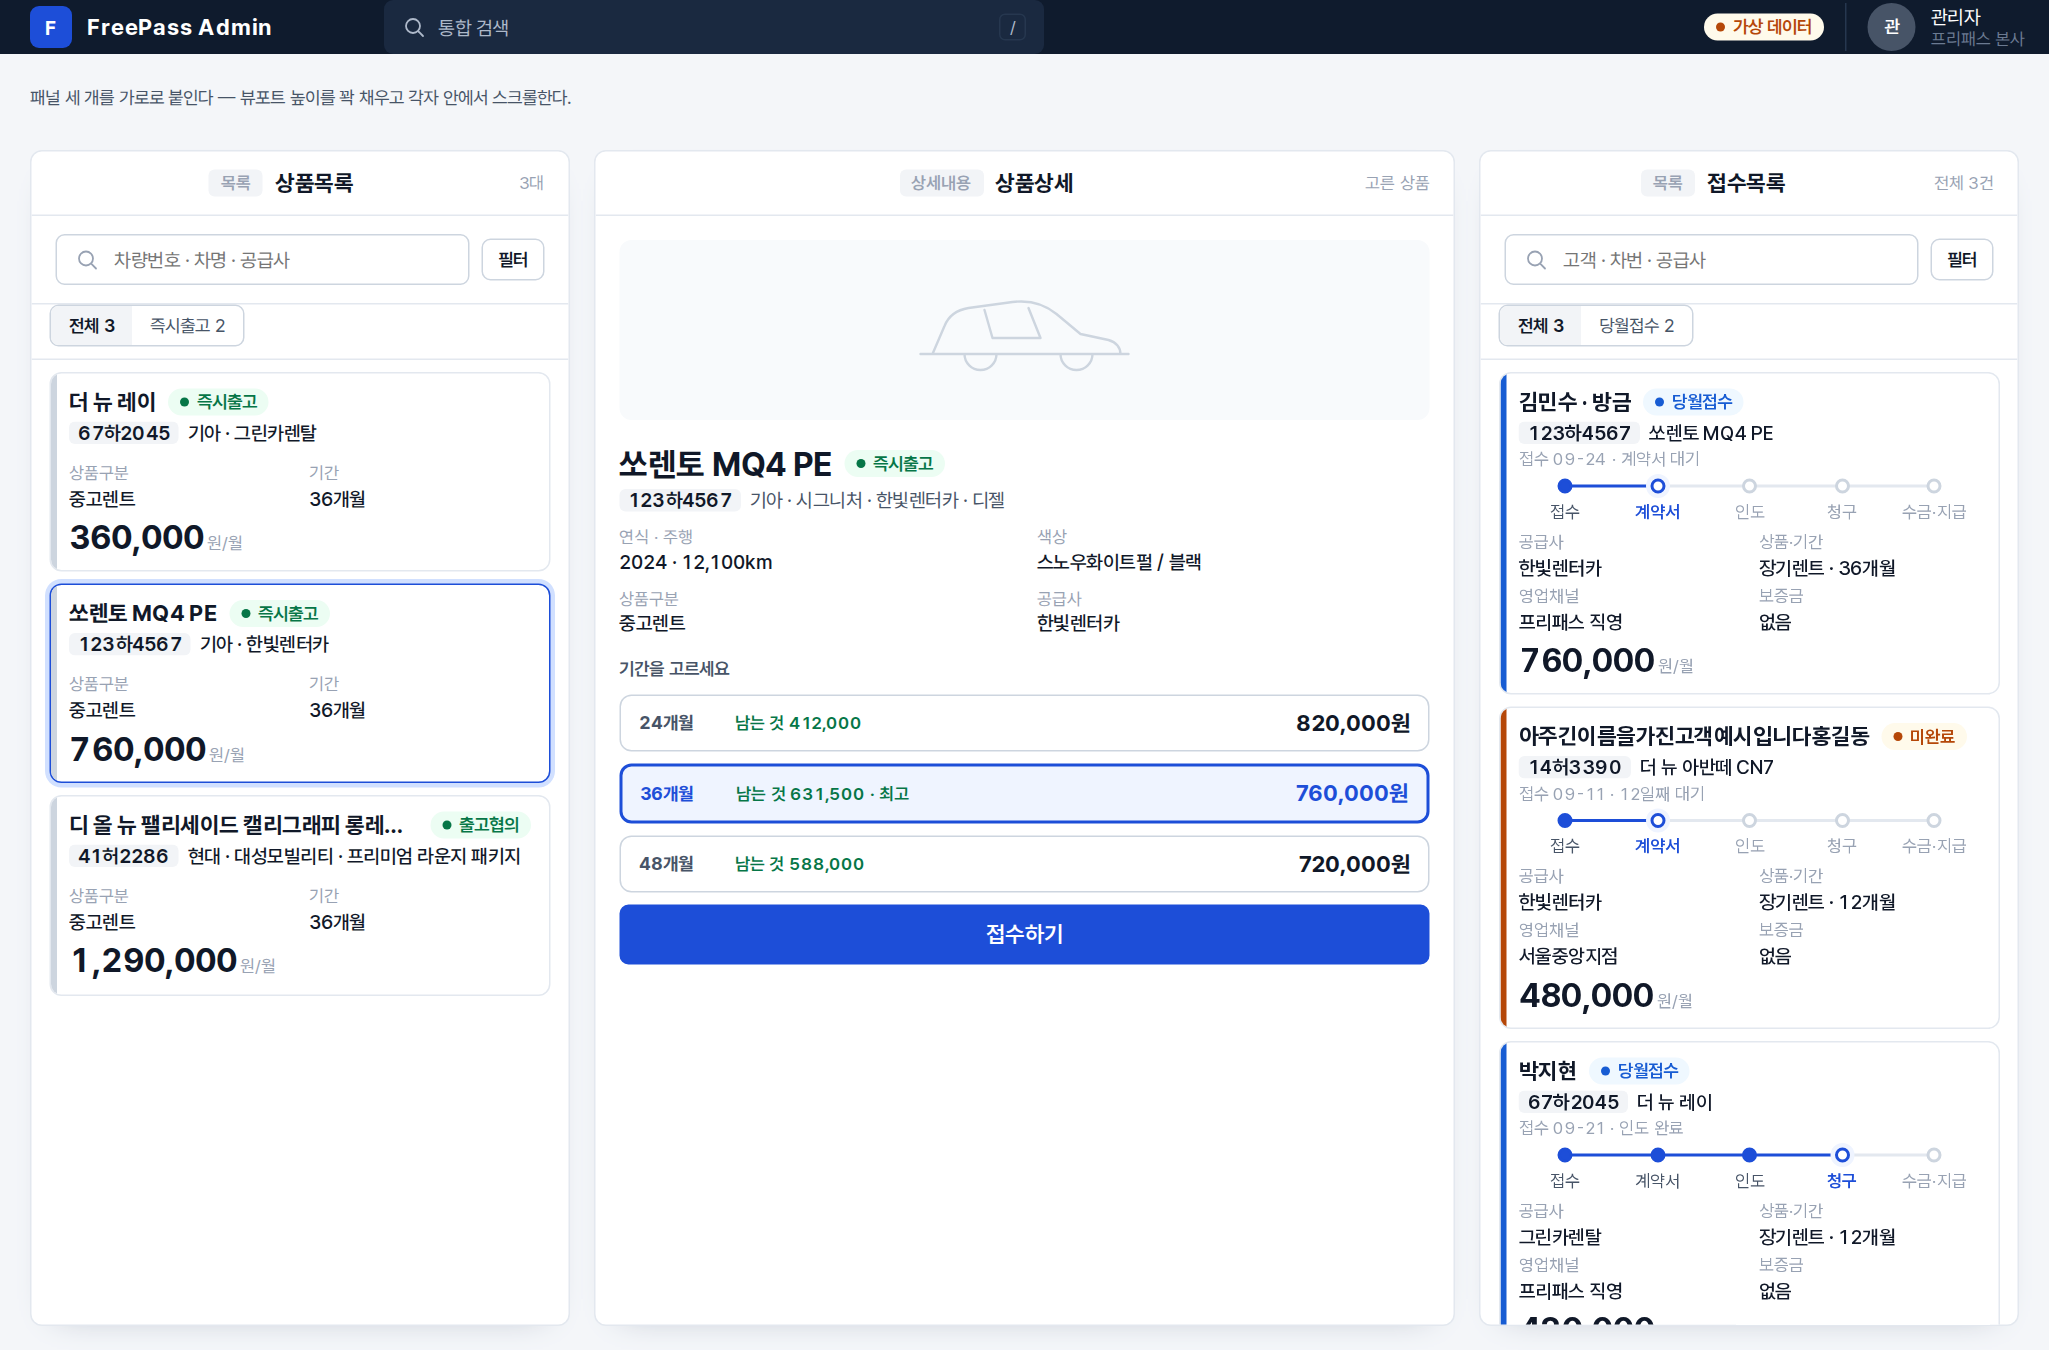
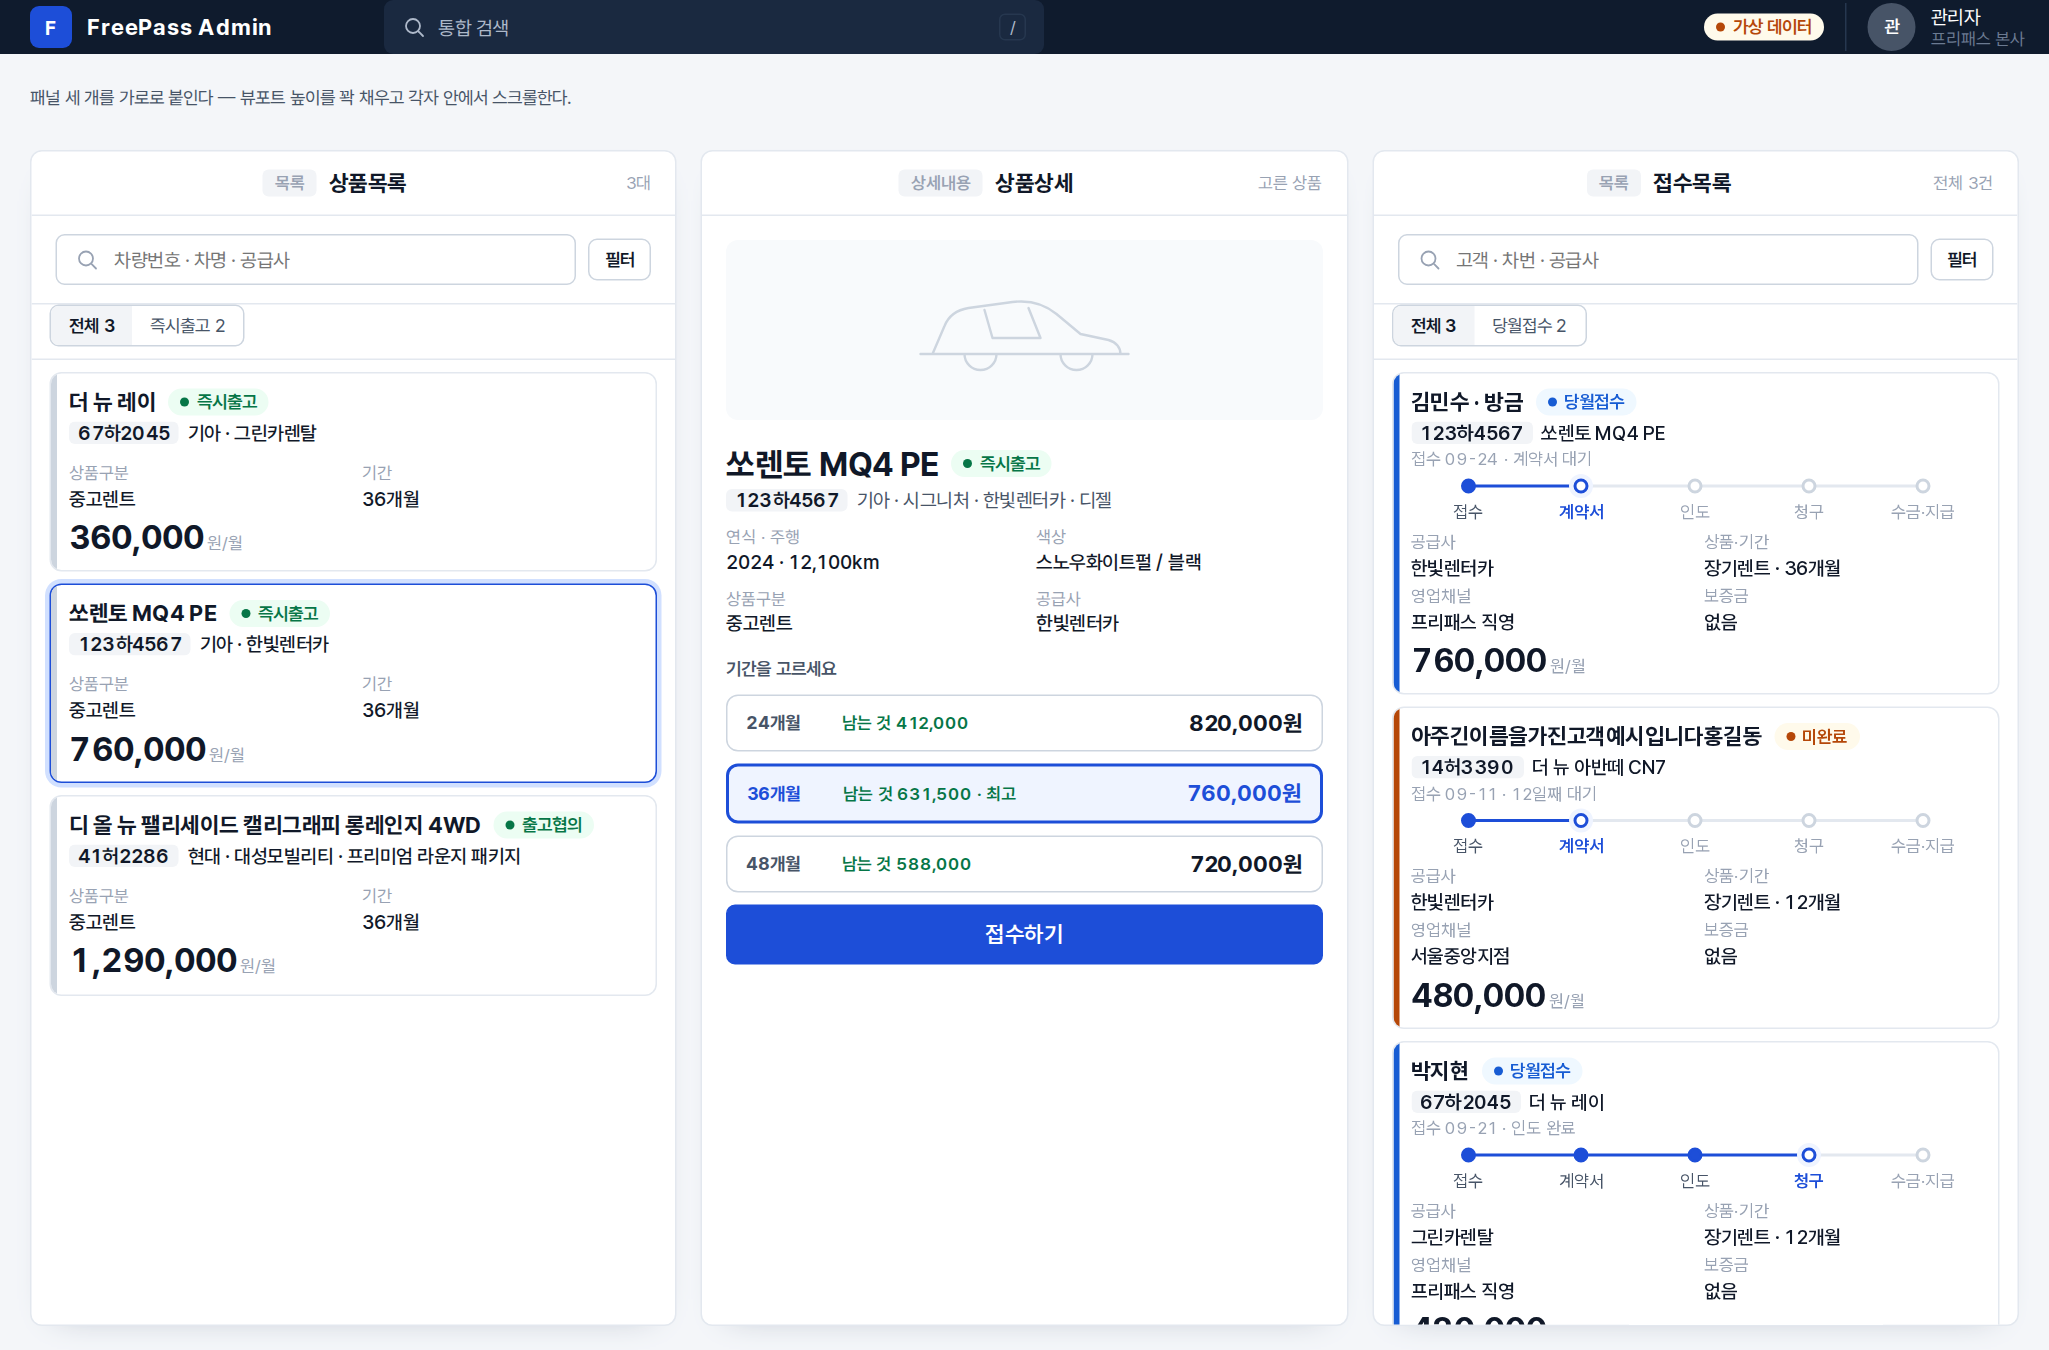
3패널 가로 배치를 동일 폭으로 조정
대표 지시 「3개 패널을 동일 간격으로」 반영 — 상세내용 패널도 목록 패널과 같은
1/3 폭을 쓰고, 안의 사진·정보·기간선택을 세로로 쌓아 좁은 폭에 맞춘다.

Claude-Session: https://claude.ai/code/session_01VHqvSXhUy82o1cFFrYMP3F

diff --git a/design/erp-standard/reference/side-by-side.css b/design/erp-standard/reference/side-by-side.css
@@ -1,11 +1,10 @@
-/* 참고 페이지 — 패널 세 개를 가로로 붙인다 (대표 2026-09-24 「아니 세로패널을 가로로 붙이라고」 —
- * 방금 만든 세로 나열 안을 대표가 바로 되돌렸다. 세 패널이 한 화면에 나란히, 뷰포트 높이를 꽉 채우고
+/* 참고 페이지 — 패널 세 개를 가로로 붙인다 (대표 2026-09-24 「아니 세로패널을 가로로 붙이라고」 →
+ * 「3개 패널을 동일 간격으로」). 세 패널이 한 화면에 나란히, 똑같은 폭으로 뷰포트 높이를 꽉 채우고
  * 각자 안에서 스크롤한다. 목록 두 패널은 좁아지니 §5-4 erp-panel--compact 로 카드가 한 줄 흐름으로 접힌다.
- * 상세내용 패널은 compact 를 안 써서 원래 넓은 레이아웃(사진 + 정보 + 기간)을 그대로 쓴다. 부품은 §5-4 · §5-5 규격 그대로. */
+ * 상세내용 패널도 같은 폭을 쓰되 안의 사진 · 기간 목록이 좁은 폭에 맞게 세로로 쌓인다. 부품은 §5-4 · §5-5 규격 그대로. */
 body.ref-page { margin: 0; padding: 0; height: 100vh; display: flex; flex-direction: column; background: var(--erp-color-bg); font-family: var(--erp-font-family); font-size: var(--erp-fs-body); }
 .sbs-main { display: flex; flex: 1; min-height: 0; padding: var(--erp-sp-4) var(--erp-sp-5); gap: var(--erp-sp-4); }
 .sbs-main .erp-panel { flex: 1 1 0; min-width: 0; }
-.sbs-main .sbs-detail { flex: 1.6 1 0; }
 .ref-note { padding: 10px var(--erp-sp-5) 0; color: var(--erp-color-text-2); font-size: var(--erp-fs-label); }
 .sv-detail-body { display: flex; flex-direction: column; gap: var(--erp-sp-4); padding: var(--erp-sp-4); }
 .sv-detail-body .photo { display: grid; place-items: center; height: 120px; border-radius: var(--erp-r-lg); background: var(--erp-color-sunken); color: var(--erp-color-line-strong); }

diff --git a/design/erp-standard/README.md b/design/erp-standard/README.md
@@ -226,13 +226,14 @@
 확인 그림: [reference/stacked-vertical.html](reference/stacked-vertical.html) · `images/stacked-vertical.png`.
 (참고용으로만 남긴다 — 실제 배치로 채택하지 않았다.)
 
-**패널 배치 — 가로로 붙이기(최종)** (대표 2026-09-24 「아니 세로패널을 가로로 붙이라고」). 패널 세 개
-(상품목록 · 상품상세 · 접수목록)를 한 화면에 나란히 두고 뷰포트 높이를 꽉 채워 각자 안에서 스크롤한다 —
-시안 I 최초안과 같은 구조이되, 목록 두 패널만 `erp-panel--compact`를 붙이고 상세내용 패널은 원래 넓은 레이아웃
-(사진 · 정보 · 기간선택)을 그대로 쓴다. 확인 그림: [reference/side-by-side.html](reference/side-by-side.html) ·
-`images/side-by-side.png`. §5-5 카드 줄 수 고정 확인용으로 아주 긴 상품명 · 고객명 예시를 넣었고,
-`erp-rowcard-title`/`erp-rowcard-link`의 말줄임(`text-overflow: ellipsis`) 처리로 배지가 밀려나지 않고
-한 줄 높이가 유지되는 것을 확인했다.
+**패널 배치 — 가로로 붙이기, 동일 폭(최종)** (대표 2026-09-24 「아니 세로패널을 가로로 붙이라고」 →
+「3개 패널을 동일 간격으로」). 패널 세 개(상품목록 · 상품상세 · 접수목록)를 한 화면에 나란히, **똑같은 폭**으로
+두고 뷰포트 높이를 꽉 채워 각자 안에서 스크롤한다. 목록 두 패널은 `erp-panel--compact`를 붙여 카드가 세로 흐름으로
+접히고, 상세내용 패널도 같은 폭을 쓰되 안의 사진 · 정보 · 기간선택을 가로가 아니라 세로로 쌓아 좁은 폭에 맞춘다.
+확인 그림: [reference/side-by-side.html](reference/side-by-side.html) · `images/side-by-side.png`.
+§5-5 카드 줄 수 고정 확인용으로 아주 긴 상품명 · 고객명 예시를 넣었고, `erp-rowcard-title`/`erp-rowcard-link`의
+말줄임(`text-overflow: ellipsis`) 처리로 배지가 밀려나지 않고 한 줄 높이가 유지되는 것을 확인했다
+(동일 폭에서는 접수목록의 긴 고객명만 실제로 잘리고, 상품목록의 긴 상품명은 자리가 넉넉해 안 잘린다 — 둘 다 정상).
 
 ## 6. ERP 공통 동작 규칙
 
